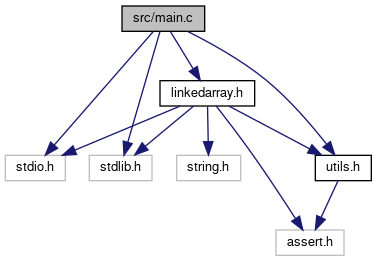
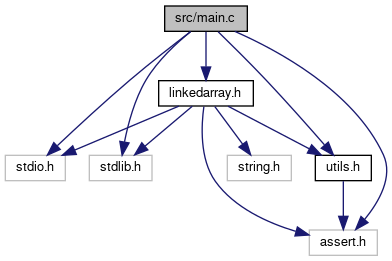
deploy: 8716ab0dd35cdd0191699d73aa521407d74eeacd

diff --git a/linkedarray_8h_source.html b/linkedarray_8h_source.html
@@ -172,16 +172,16 @@ $(function() {
 <div class="line"><a name="l00171"></a><span class="lineno">  171</span>&#160; </div>
 <div class="line"><a name="l00172"></a><span class="lineno">  172</span>&#160;<span class="preprocessor">#endif</span></div>
 <div class="ttc" id="alinkedarray_8h_html_a13bc392c48b15486122b49d5b2371d6f"><div class="ttname"><a href="linkedarray_8h.html#a13bc392c48b15486122b49d5b2371d6f">NumItemSmaller</a></div><div class="ttdeci">int NumItemSmaller(StrEndLoc StrEnd, int key)</div><div class="ttdoc">Measure how many items is smaller than key.</div><div class="ttdef"><b>Definition:</b> linkedarray.c:528</div></div>
-<div class="ttc" id="alinkedarray_8h_html_a17beb65448ab3f4655cac3f3e3213d5a"><div class="ttname"><a href="linkedarray_8h.html#a17beb65448ab3f4655cac3f3e3213d5a">kill_LArray</a></div><div class="ttdeci">void kill_LArray(Loc nodeLoc)</div><div class="ttdef"><b>Definition:</b> linkedarray.c:204</div></div>
-<div class="ttc" id="alinkedarray_8h_html_a1a97e22047e9315fd79bc2661138e2ab"><div class="ttname"><a href="linkedarray_8h.html#a1a97e22047e9315fd79bc2661138e2ab">flipFullNodes</a></div><div class="ttdeci">int flipFullNodes(LnkArr **list, Loc nodeStr, Loc nodeEnd)</div><div class="ttdoc">Flip nodes between start to end nodes, including themselves. The effect region is (start....</div><div class="ttdef"><b>Definition:</b> linkedarray.c:323</div></div>
+<div class="ttc" id="alinkedarray_8h_html_a17beb65448ab3f4655cac3f3e3213d5a"><div class="ttname"><a href="linkedarray_8h.html#a17beb65448ab3f4655cac3f3e3213d5a">kill_LArray</a></div><div class="ttdeci">void kill_LArray(Loc nodeLoc)</div><div class="ttdef"><b>Definition:</b> linkedarray.c:202</div></div>
+<div class="ttc" id="alinkedarray_8h_html_a1a97e22047e9315fd79bc2661138e2ab"><div class="ttname"><a href="linkedarray_8h.html#a1a97e22047e9315fd79bc2661138e2ab">flipFullNodes</a></div><div class="ttdeci">int flipFullNodes(LnkArr **list, Loc nodeStr, Loc nodeEnd)</div><div class="ttdoc">Flip nodes between start to end nodes, including themselves. The effect region is (start....</div><div class="ttdef"><b>Definition:</b> linkedarray.c:321</div></div>
 <div class="ttc" id="alinkedarray_8h_html_a204b852d3fa9bb734ff32b9070218a4f"><div class="ttname"><a href="linkedarray_8h.html#a204b852d3fa9bb734ff32b9070218a4f">splitNode</a></div><div class="ttdeci">void splitNode(Loc nodeLoc)</div><div class="ttdoc">Split the node to extend. The splited node is wired to the next node.</div><div class="ttdef"><b>Definition:</b> linkedarray.c:65</div></div>
 <div class="ttc" id="alinkedarray_8h_html_a22e4ac41ff830aab17f48f48a760cebc"><div class="ttname"><a href="linkedarray_8h.html#a22e4ac41ff830aab17f48f48a760cebc">find_LnkArr_ith_bounded</a></div><div class="ttdeci">Loc find_LnkArr_ith_bounded(LnkArr *startNode, LnkArr *prevNode, int sumLenPrev, int i)</div><div class="ttdef"><b>Definition:</b> linkedarray.c:393</div></div>
 <div class="ttc" id="alinkedarray_8h_html_a24675a0a3b56694ff51f65c618420cac"><div class="ttname"><a href="linkedarray_8h.html#a24675a0a3b56694ff51f65c618420cac">get_ith_var</a></div><div class="ttdeci">int get_ith_var(LnkArr *headList, int i)</div><div class="ttdef"><b>Definition:</b> linkedarray.c:455</div></div>
 <div class="ttc" id="alinkedarray_8h_html_a2a3ae7b2bfc4bf07f6dcab9785fd038a"><div class="ttname"><a href="linkedarray_8h.html#a2a3ae7b2bfc4bf07f6dcab9785fd038a">sortNode</a></div><div class="ttdeci">int sortNode(LnkArr *)</div><div class="ttdef"><b>Definition:</b> linkedarray.c:496</div></div>
-<div class="ttc" id="alinkedarray_8h_html_a5488b8a5eb4fb9babba4e7c0b1af74ec"><div class="ttname"><a href="linkedarray_8h.html#a5488b8a5eb4fb9babba4e7c0b1af74ec">remove_LArray</a></div><div class="ttdeci">void remove_LArray(Loc nodeLoc)</div><div class="ttdef"><b>Definition:</b> linkedarray.c:174</div></div>
-<div class="ttc" id="alinkedarray_8h_html_a6665fac402b572f86667a26d7fab7368"><div class="ttname"><a href="linkedarray_8h.html#a6665fac402b572f86667a26d7fab7368">query</a></div><div class="ttdeci">int query(LnkArr *list, int l, int r, int k)</div><div class="ttdef"><b>Definition:</b> linkedarray.c:121</div></div>
+<div class="ttc" id="alinkedarray_8h_html_a5488b8a5eb4fb9babba4e7c0b1af74ec"><div class="ttname"><a href="linkedarray_8h.html#a5488b8a5eb4fb9babba4e7c0b1af74ec">remove_LArray</a></div><div class="ttdeci">void remove_LArray(Loc nodeLoc)</div><div class="ttdef"><b>Definition:</b> linkedarray.c:172</div></div>
+<div class="ttc" id="alinkedarray_8h_html_a6665fac402b572f86667a26d7fab7368"><div class="ttname"><a href="linkedarray_8h.html#a6665fac402b572f86667a26d7fab7368">query</a></div><div class="ttdeci">int query(LnkArr *list, int l, int r, int k)</div><div class="ttdef"><b>Definition:</b> linkedarray.c:119</div></div>
 <div class="ttc" id="alinkedarray_8h_html_a670f3d90091cc701f9131774eb93a2b2"><div class="ttname"><a href="linkedarray_8h.html#a670f3d90091cc701f9131774eb93a2b2">getINodeStr</a></div><div class="ttdeci">int getINodeStr(Loc)</div><div class="ttdef"><b>Definition:</b> linkedarray.c:482</div></div>
-<div class="ttc" id="alinkedarray_8h_html_a68b2cb74eff0a4f1f38366f3ca7609ef"><div class="ttname"><a href="linkedarray_8h.html#a68b2cb74eff0a4f1f38366f3ca7609ef">reverse</a></div><div class="ttdeci">int reverse(LnkArr **list, int str, int end)</div><div class="ttdef"><b>Definition:</b> linkedarray.c:215</div></div>
+<div class="ttc" id="alinkedarray_8h_html_a68b2cb74eff0a4f1f38366f3ca7609ef"><div class="ttname"><a href="linkedarray_8h.html#a68b2cb74eff0a4f1f38366f3ca7609ef">reverse</a></div><div class="ttdeci">int reverse(LnkArr **list, int str, int end)</div><div class="ttdef"><b>Definition:</b> linkedarray.c:213</div></div>
 <div class="ttc" id="alinkedarray_8h_html_a76c89d93b728f8bb31e4ea1405558bde"><div class="ttname"><a href="linkedarray_8h.html#a76c89d93b728f8bb31e4ea1405558bde">LnkArr</a></div><div class="ttdeci">struct node LnkArr</div></div>
 <div class="ttc" id="alinkedarray_8h_html_a8f5cd06fcf2335d677f962ddfd408235"><div class="ttname"><a href="linkedarray_8h.html#a8f5cd06fcf2335d677f962ddfd408235">getINode</a></div><div class="ttdeci">int getINode(Loc)</div><div class="ttdef"><b>Definition:</b> linkedarray.c:466</div></div>
 <div class="ttc" id="alinkedarray_8h_html_a9ee398f81281aa5def534f7fecb30ef9"><div class="ttname"><a href="linkedarray_8h.html#a9ee398f81281aa5def534f7fecb30ef9">sortBetween</a></div><div class="ttdeci">MinMax sortBetween(Loc nodeStr, Loc nodeEnd)</div><div class="ttdoc">sort array between start and end node (including terminals)</div><div class="ttdef"><b>Definition:</b> linkedarray.c:506</div></div>
@@ -190,7 +190,7 @@ $(function() {
 <div class="ttc" id="alinkedarray_8h_html_ac4ba5a8899ce0b7f30ec4a7369961955"><div class="ttname"><a href="linkedarray_8h.html#ac4ba5a8899ce0b7f30ec4a7369961955">find_LnkArr_ith</a></div><div class="ttdeci">Loc find_LnkArr_ith(LnkArr *headList, int i)</div><div class="ttdef"><b>Definition:</b> linkedarray.c:389</div></div>
 <div class="ttc" id="alinkedarray_8h_html_ad28f54d3afb32efa9887077f3f10bec1"><div class="ttname"><a href="linkedarray_8h.html#ad28f54d3afb32efa9887077f3f10bec1">insert</a></div><div class="ttdeci">int insert(LnkArr *, int i, int x)</div><div class="ttdef"><b>Definition:</b> linkedarray.c:27</div></div>
 <div class="ttc" id="alinkedarray_8h_html_ae09ebb3d01abd07009f724db79fc1a26"><div class="ttname"><a href="linkedarray_8h.html#ae09ebb3d01abd07009f724db79fc1a26">find_start_end_LA</a></div><div class="ttdeci">StrEndLoc find_start_end_LA(LnkArr *headlist, int str, int end)</div><div class="ttdef"><b>Definition:</b> linkedarray.c:444</div></div>
-<div class="ttc" id="alinkedarray_8h_html_ae507e388b4fc6fcd090b0bd0836e3c1f"><div class="ttname"><a href="linkedarray_8h.html#ae507e388b4fc6fcd090b0bd0836e3c1f">reverseInNodes</a></div><div class="ttdeci">int reverseInNodes(Loc nodeStr, Loc nodeEnd)</div><div class="ttdef"><b>Definition:</b> linkedarray.c:369</div></div>
+<div class="ttc" id="alinkedarray_8h_html_ae507e388b4fc6fcd090b0bd0836e3c1f"><div class="ttname"><a href="linkedarray_8h.html#ae507e388b4fc6fcd090b0bd0836e3c1f">reverseInNodes</a></div><div class="ttdeci">int reverseInNodes(Loc nodeStr, Loc nodeEnd)</div><div class="ttdef"><b>Definition:</b> linkedarray.c:367</div></div>
 <div class="ttc" id="astructLoc_html"><div class="ttname"><a href="structLoc.html">Loc</a></div><div class="ttdoc">Position in linked array.</div><div class="ttdef"><b>Definition:</b> linkedarray.h:50</div></div>
 <div class="ttc" id="astructMinMax_html"><div class="ttname"><a href="structMinMax.html">MinMax</a></div><div class="ttdef"><b>Definition:</b> linkedarray.h:64</div></div>
 <div class="ttc" id="astructStrEndLoc_html"><div class="ttname"><a href="structStrEndLoc.html">StrEndLoc</a></div><div class="ttdef"><b>Definition:</b> linkedarray.h:59</div></div>

diff --git a/test__linkedarray_8h_source.html b/test__linkedarray_8h_source.html
@@ -291,9 +291,9 @@ $(function() {
 <div class="line"><a name="l00230"></a><span class="lineno">  230</span>&#160; </div>
 <div class="line"><a name="l00231"></a><span class="lineno">  231</span>&#160;<span class="preprocessor">#endif</span></div>
 <div class="ttc" id="alinkedarray_8h_html"><div class="ttname"><a href="linkedarray_8h.html">linkedarray.h</a></div><div class="ttdoc">Unrolled linked list for finding K-least element.</div></div>
-<div class="ttc" id="alinkedarray_8h_html_a1a97e22047e9315fd79bc2661138e2ab"><div class="ttname"><a href="linkedarray_8h.html#a1a97e22047e9315fd79bc2661138e2ab">flipFullNodes</a></div><div class="ttdeci">int flipFullNodes(LnkArr **list, Loc nodeStr, Loc nodeEnd)</div><div class="ttdoc">Flip nodes between start to end nodes, including themselves. The effect region is (start....</div><div class="ttdef"><b>Definition:</b> linkedarray.c:323</div></div>
+<div class="ttc" id="alinkedarray_8h_html_a1a97e22047e9315fd79bc2661138e2ab"><div class="ttname"><a href="linkedarray_8h.html#a1a97e22047e9315fd79bc2661138e2ab">flipFullNodes</a></div><div class="ttdeci">int flipFullNodes(LnkArr **list, Loc nodeStr, Loc nodeEnd)</div><div class="ttdoc">Flip nodes between start to end nodes, including themselves. The effect region is (start....</div><div class="ttdef"><b>Definition:</b> linkedarray.c:321</div></div>
 <div class="ttc" id="alinkedarray_8h_html_a24675a0a3b56694ff51f65c618420cac"><div class="ttname"><a href="linkedarray_8h.html#a24675a0a3b56694ff51f65c618420cac">get_ith_var</a></div><div class="ttdeci">int get_ith_var(LnkArr *headList, int i)</div><div class="ttdef"><b>Definition:</b> linkedarray.c:455</div></div>
-<div class="ttc" id="alinkedarray_8h_html_a68b2cb74eff0a4f1f38366f3ca7609ef"><div class="ttname"><a href="linkedarray_8h.html#a68b2cb74eff0a4f1f38366f3ca7609ef">reverse</a></div><div class="ttdeci">int reverse(LnkArr **list, int str, int end)</div><div class="ttdef"><b>Definition:</b> linkedarray.c:215</div></div>
+<div class="ttc" id="alinkedarray_8h_html_a68b2cb74eff0a4f1f38366f3ca7609ef"><div class="ttname"><a href="linkedarray_8h.html#a68b2cb74eff0a4f1f38366f3ca7609ef">reverse</a></div><div class="ttdeci">int reverse(LnkArr **list, int str, int end)</div><div class="ttdef"><b>Definition:</b> linkedarray.c:213</div></div>
 <div class="ttc" id="alinkedarray_8h_html_aa109308c19d3c05dae128de66c21affc"><div class="ttname"><a href="linkedarray_8h.html#aa109308c19d3c05dae128de66c21affc">init_list_empty</a></div><div class="ttdeci">LnkArr * init_list_empty(void)</div><div class="ttdef"><b>Definition:</b> linkedarray.c:5</div></div>
 <div class="ttc" id="alinkedarray_8h_html_ac4ba5a8899ce0b7f30ec4a7369961955"><div class="ttname"><a href="linkedarray_8h.html#ac4ba5a8899ce0b7f30ec4a7369961955">find_LnkArr_ith</a></div><div class="ttdeci">Loc find_LnkArr_ith(LnkArr *headList, int i)</div><div class="ttdef"><b>Definition:</b> linkedarray.c:389</div></div>
 <div class="ttc" id="alinkedarray_8h_html_ad28f54d3afb32efa9887077f3f10bec1"><div class="ttname"><a href="linkedarray_8h.html#ad28f54d3afb32efa9887077f3f10bec1">insert</a></div><div class="ttdeci">int insert(LnkArr *, int i, int x)</div><div class="ttdef"><b>Definition:</b> linkedarray.c:27</div></div>

diff --git a/main_8c.html b/main_8c.html
@@ -78,18 +78,19 @@ $(function() {
 <code>#include &lt;stdlib.h&gt;</code><br />
 <code>#include &quot;<a class="el" href="linkedarray_8h_source.html">linkedarray.h</a>&quot;</code><br />
 <code>#include &quot;<a class="el" href="utils_8h_source.html">utils.h</a>&quot;</code><br />
+<code>#include &lt;assert.h&gt;</code><br />
 </div><div class="textblock"><div class="dynheader">
 Include dependency graph for main.c:</div>
 <div class="dyncontent">
 <div class="center"><img src="main_8c__incl.png" border="0" usemap="#asrc_2main_8c" alt=""/></div>
 <map name="asrc_2main_8c" id="asrc_2main_8c">
-<area shape="rect" title="DSA2021 HW1 P6: K least member. This package is majorly done by myself. The algorithm part is inspire..." alt="" coords="122,5,205,32"/>
+<area shape="rect" title="DSA2021 HW1 P6: K least member. This package is majorly done by myself. The algorithm part is inspire..." alt="" coords="165,5,247,32"/>
 <area shape="rect" title=" " alt="" coords="5,155,65,181"/>
 <area shape="rect" title=" " alt="" coords="89,155,152,181"/>
-<area shape="rect" href="linkedarray_8h.html" title="Unrolled linked list for finding K&#45;least element." alt="" coords="160,80,255,107"/>
+<area shape="rect" href="linkedarray_8h.html" title="Unrolled linked list for finding K&#45;least element." alt="" coords="159,80,253,107"/>
+<area shape="rect" title=" " alt="" coords="309,229,377,256"/>
 <area shape="rect" href="utils_8h.html" title="General Utilities for C language." alt="" coords="315,155,371,181"/>
-<area shape="rect" title=" " alt="" coords="276,229,344,256"/>
-<area shape="rect" title=" " alt="" coords="177,155,241,181"/>
+<area shape="rect" title=" " alt="" coords="227,155,291,181"/>
 </map>
 </div>
 </div><table class="memberdecls">
